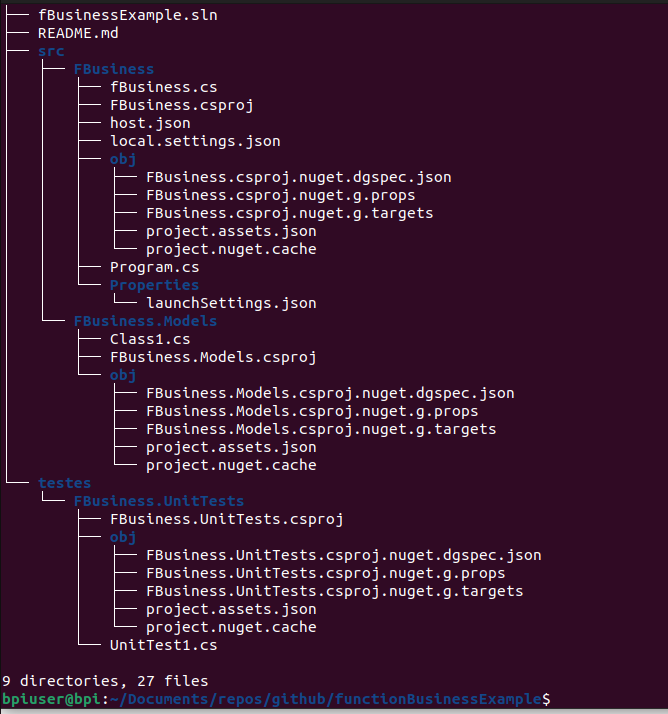
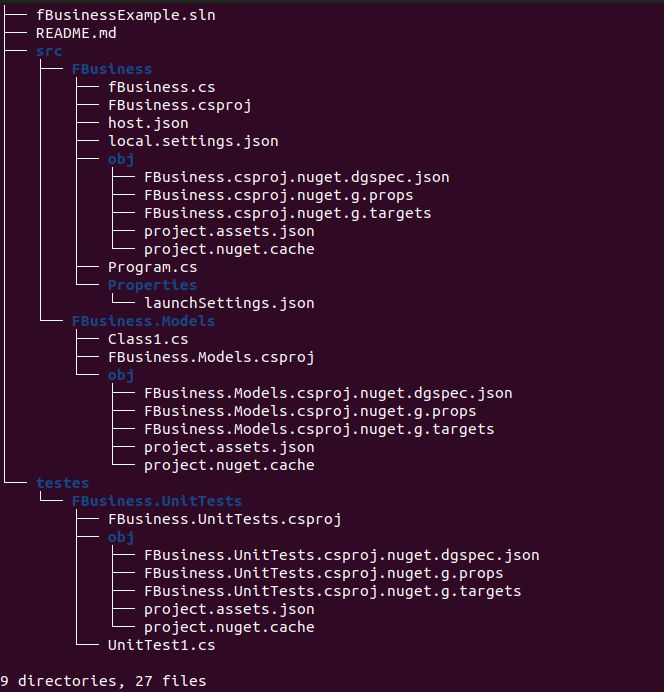
change image bug

Changed region(s): [[0.0, 0.0, 1.0, 1.0]]

diff --git a/README.md b/README.md
@@ -45,4 +45,4 @@ dotnet add src/tests/FBusiness.Tests/FBusiness.Tests.csproj
 
 
 ## Folders Structure
-![Alt text](/docs/treee.png "tree Image")
+![Alt text](/docs/tree.png "tree Image")
